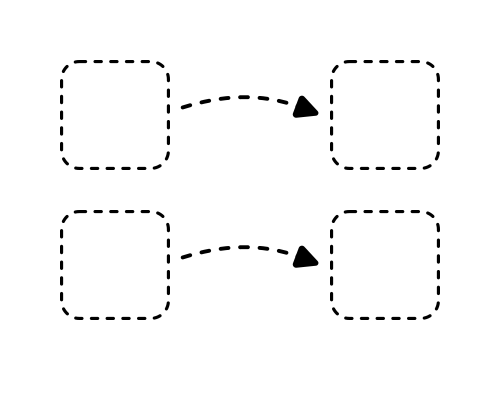
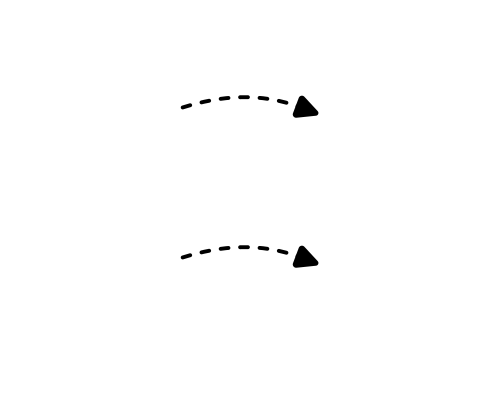
Changed symlink to a pdf with instructions. Also altered the background image to remove the boxes

diff --git a/installer/OSX-DMG/exporter-install-instructions.md b/installer/OSX-DMG/exporter-install-instructions.md
@@ -1,0 +1,12 @@
+# MacOS Exporter Installation Instructions
+## Requirements
+- Fusion 360 installed on your system.
+
+## Copy the Files
+Move the `Exporter` folder, located in the installer pointing to this file, into the following directory:
+```
+~/Library/Application Support/Autodesk/Autodesk Fusion 360/API/AddIns/
+```
+
+## Usage
+Upon opening Fusion 360, the exporter should automatically run and be made available in the `UTILITIES` tab. If not, please open the add-ins panel and manually run it.

diff --git a/installer/OSX-DMG/README.md b/installer/OSX-DMG/README.md
@@ -11,6 +11,8 @@ $ git clone git@github.com:create-dmg/create-dmg.git
 $ cp -r [Location of app] ./source_folder/Synthesis.app
 ```
 
+2. Compile the `exporter-install-instructions.md` into a PDF. I recommend using the Yzane extension in VSCode. 
+
 ## Create Disk Image
 Run the `make-installer.sh` shell script:
 ```
